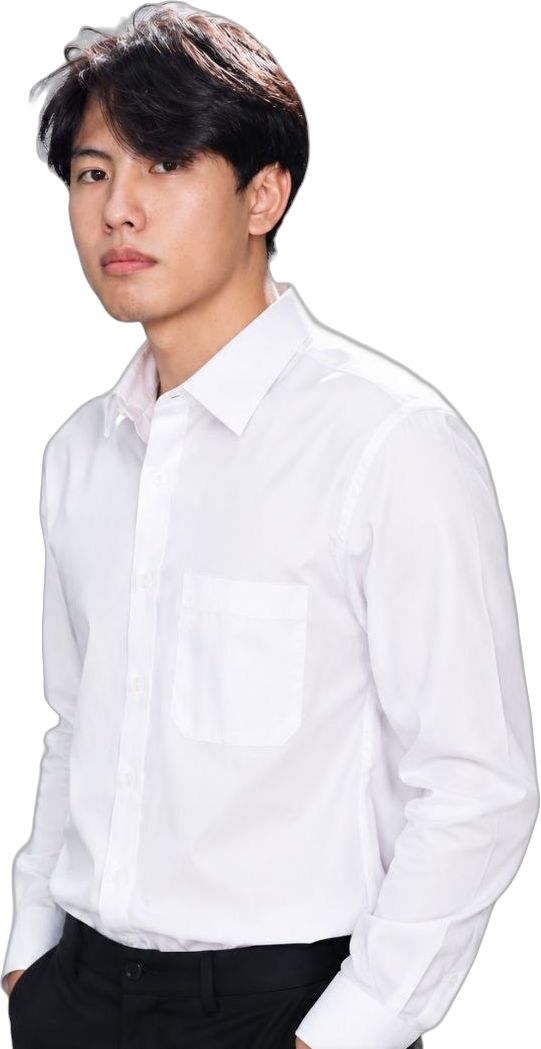
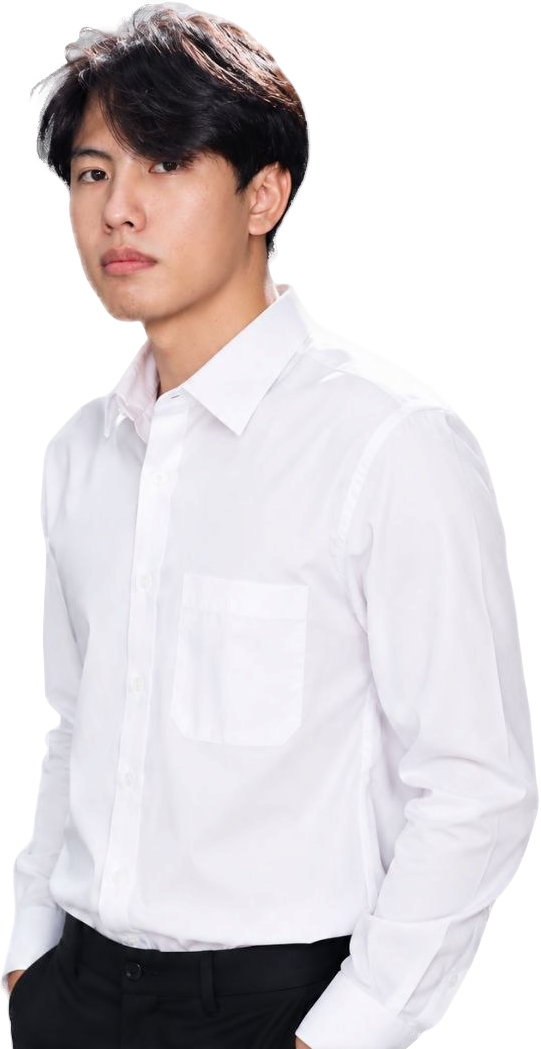
Add Agri-AI, CropScan, Yield Pro and six more case studies; clean the hero cut-out
New featured cards and an AGRI & SATELLITE filter: Agri-AI satellite field
monitoring (with a full case-study page and satellite evidence gallery),
CropScan harvest monitoring, Yield Pro, sugarcane-cv, CaneGate, eKYC,
YouTube Shorts automation (own case-study page) and Dragon Combat.
Teach the AI assistant about all of them in knowledge.ts and identity.ts.

Re-cut the hero portrait with a matting model so the white fringe around
the hair and shoulders is gone.

diff --git a/lib/knowledge.ts b/lib/knowledge.ts
@@ -10,7 +10,7 @@ export const KNOWLEDGE_BASE: KnowledgeSection[] = [
     {
         id: "about",
         title: "About Watcharapon",
-        content: "Watcharapon (Oat) Thodraksa is a Full-Stack Developer specializing in AI Applications, Mobile Development, and UX/UI Design. He is a Computer Science student (Co-op Program) at Kasetsart University Chalermphrakiat Sakon Nakhon Campus (GPA 2.97), with hands-on enterprise experience from his co-op at Sycapt Co., Ltd. in Bangkok. He can be reached at watcharapon.thod@gmail.com or 094-453-2072.",
+        content: "Watcharapon (Oat) Thodraksa is an AI Engineer who builds computer vision and satellite ML that runs on real cameras and real fields. Most of his current work is for a Thai sugar mill: Agri-AI satellite field monitoring (CropScan, Yield Pro, SAR to NDVI gapfill) at TokinTech, and CaneGate / sugarcane-cv at the weighbridge. Earlier he worked as a Full-Stack Developer on AI applications, mobile and UX/UI. He is a Computer Science student (Co-op Program) at Kasetsart University Chalermphrakiat Sakon Nakhon Campus (GPA 2.97), with hands-on enterprise experience from his co-op at Sycapt Co., Ltd. in Bangkok. He can be reached at watcharapon.thod@gmail.com or 094-453-2072.",
         keywords: ["who", "biography", "background", "location", "bangkok", "contact", "email", "phone", "education", "university"]
     },
     {
@@ -24,6 +24,36 @@ export const KNOWLEDGE_BASE: KnowledgeSection[] = [
         title: "Core Technical Skills",
         content: "Full-Stack: React, Next.js, NestJS, FastAPI, Python, TypeScript, Java Spring Boot, Node.js, PHP. Mobile: React Native + Gemini API. AI/RAG: LangChain, LangGraph, LlamaIndex, pgvector, Qdrant, Gemini API, Hugging Face, n8n, Prompt Engineering. Database: PostgreSQL, MySQL, MongoDB, Firebase, Redis. DevOps: Docker, Kubernetes, GitLab CI/CD, Apache Kafka, ELK Stack, Prometheus, Grafana. Design: Figma, Canva, Power BI. Security: Penetration Testing, Vulnerability Analysis, Defensive Tool Development.",
         keywords: ["skills", "languages", "tools", "stack", "tech", "react", "python", "langchain", "kubernetes", "docker"]
+    },
+    {
+        id: "projects-agri-ai",
+        title: "Project: Agri-AI — Satellite Sugarcane Field Monitoring (TokinTech, 2026)",
+        content: "Agri-AI is a per-field sugarcane monitoring system built for a Thai sugar mill (TRR) from Sentinel-2 optical, Sentinel-1 radar, DEM, CHIRPS rain, Open-Meteo weather and SoilGrids. It runs on Railway as a FastAPI service with a built-in scheduler, pulls every new scene from Planetary Computer, computes per-pixel and per-field signals, and pushes recommendations into the mill's own SQL Server backend. Two products: CropScan Harvest Monitoring (cut or standing, and cut percentage per field; two-colour NDVI rule plus a Sentinel-1 VH-drop gate; out-of-block on 8,924 fields season 68: precision 0.869, recall 0.897, F1 0.883) and Yield Pro (field health, cause labels such as drought/decline/recovery, and P10/P50/P90 tonnes per rai from LightGBM; in-sample Spearman 0.72, honest out-of-zone 0.25–0.31, so it ships deciles and ranking not a tonne figure). A SAR→NDVI gapfill model predicts the optical index under cloud: 95.7% of answered pixels within ±0.10 NDVI, MAE 0.034, on 129k held-out pixels from 448,986 out-of-block pixels, conformal intervals with a reject option at 28.8% coverage. MLOps: warehouse bucket, Kaggle/Modal GPU training, PROVENANCE.json per artifact, MLflow, Loki + Grafana + Prometheus. A related paper on unregistered cane field detection from AlphaEarth embeddings (recall 93.2%) was submitted to Precision Agriculture (Springer) in August 2026. Watcharapon is the AI/MLOps engineer on this at TokinTech.",
+        keywords: ["agri", "agri-ai", "satellite", "sentinel", "sugarcane", "cane", "field", "cropscan", "yield pro", "yield", "harvest", "ndvi", "sar", "radar", "gapfill", "remote sensing", "trr", "tokintech", "mill", "railway", "mlflow", "precision agriculture", "paper"]
+    },
+    {
+        id: "projects-sugarcane-cv",
+        title: "Project: sugarcane-cv — Nine CV/Audio Detectors at a Thai Sugar Mill",
+        content: "sugarcane-cv collects nine detection problems from one real sugar mill: dust opacity at the tipper (model + rules, synthetic test set), burnt vs fresh cane (trained on 8,612 real CCTV frames, camera-bound), mixed burnt cane in one load (colour rule, no model), dirt/leaf contamination (65 real images, inconclusive), sand/rock/metal from microphone audio (real sound from the tipping bay, sand solved), cane flow on the conveyor (self-training model at 70 fps on real video), Thai licence plate reading (two readers, one model-free, designed for zero wrong reads on a 60-image hard set), is-there-cane-on-the-truck (edge rule, 3.9 ms per frame, deployed), and cane stalk segmentation (31 hand labels, supporting work). The repo contains training code and algorithms only, no model files and no customer images, and every number states what evidence it stands on. Related production system: CaneGate, an all-in-one truck inspection at the weighbridge (side camera grades cane, front camera reads the Thai plate) shipped as Docker images khawoat07/canegate, canegate-web and canegate-lpr. GitHub: https://github.com/watcharaponthod-code/sugarcane-cv",
+        keywords: ["sugarcane-cv", "sugarcane", "mill", "dust", "burnt", "cctv", "plate", "ocr", "licence", "license", "canegate", "truck", "weighbridge", "conveyor", "audio", "rock", "sand", "docker", "computer vision"]
+    },
+    {
+        id: "projects-ekyc",
+        title: "Project: eKYC — Liveness Capture and Face Identity",
+        content: "ekyc is a React Native module plus a Python FastAPI decision server. The phone runs the interaction (turn, blink and active-flash liveness coaching with ML Kit) and stores no biometric data; the server re-derives everything from pixels using MediaPipe (478 landmarks, head pose, blendshapes) and DeepFace (ArcFace embeddings, MiniFASNet anti-spoofing ensemble). An ONNX-only backend (SCRFD + ArcFace + MiniFASNet) exists for deployments without TensorFlow/PyTorch, and a fully on-device variant uses ML Kit + MobileFaceNet. 187 server tests (42 on real models) and 105 module tests pass, including enrol, verify, identify and erase end-to-end. Includes a PAD evaluation harness for APCER/BPCER per attack species (ISO/IEC 30107-3). Documented gaps: not yet run on a physical phone; thresholds calibrated on Western press photos; only screen-replay attacks tested. GitHub: https://github.com/watcharaponthod-code/ekyc",
+        keywords: ["ekyc", "kyc", "liveness", "face", "biometric", "anti-spoof", "mediapipe", "deepface", "arcface", "react native", "identity", "verification", "pad", "apcer"]
+    },
+    {
+        id: "projects-shorts-automation",
+        title: "Project: YouTube Shorts Automation — BudyStory / AlexASMR",
+        content: "A closed-loop content pipeline: analyse yesterday's YouTube Analytics (views, retention, traffic sources via a REST proxy), decide the next theme, find ideas from competitor clips, generate 9:16 ten-second clips with meta.ai using a locked character spec, QC every frame (character outfit, no subtitles, correct aspect, title set), upload to two YouTube channels and Facebook Reels on schedule, then measure 48 hours later and update the strategy. As of 19 Sep 2026 the BudyStory channel had 5,510 subscribers, 3.34 million views and 189 clips, averaging about 211k views per day; traffic is 97% Shorts feed, 84% Thailand. Findings that became rules: retention leaks in seconds 1–2, silent food fails on the ASMR channel, 18 uploads in one day collapsed reach 100 times, big-object destruction is the top format, hit rate above 100k views is 7 of 129 clips. Nothing publishes without human confirmation. An earlier version used Gemini TTS Thai narration, synthetic SFX and ffmpeg effects.",
+        keywords: ["youtube", "shorts", "automation", "content", "budystory", "asmr", "analytics", "retention", "meta.ai", "video", "pipeline", "growth", "facebook", "reels", "tts"]
+    },
+    {
+        id: "projects-dragon-combat",
+        title: "Project: Dragon Combat — Roblox Aerial PvP with Human-Passing Bot AI",
+        content: "roblox-dragon-combat is a multiplayer dragon flight-combat game in Roblox. The bot AI is a behaviour-based flight brain, not a neural network: a three-state finite state machine (PATROL through boost rings with altitude changes capped at ±70 studs; ATTACK as a gun run aiming at target position plus a quarter second of velocity, then breaking off at 240 studs with a 75-degree bank; EVADE below 28% HP with a sinusoidal jink). Target selection adds a 240-stud penalty per bot already claiming a target so the squad spreads across the arena and bots fight each other. Whisker raycasts and wall-slide handle obstacles. Reinforcement learning was rejected because the budget is a few hundred microseconds per bot per frame in Luau, the goal is to lose convincingly rather than win, and every player complaint maps to one constant. GitHub: https://github.com/watcharaponthod-code/roblox-dragon-combat",
+        keywords: ["roblox", "dragon", "game", "bot", "ai", "luau", "steering", "fsm", "pvp", "game ai", "behaviour"]
     },
     {
         id: "projects-rag-chat",

diff --git a/components/portfolio/Projects.tsx b/components/portfolio/Projects.tsx
@@ -15,6 +15,9 @@ const SUBWAY_GIF    = 'https://raw.githubusercontent.com/watcharaponthod-code/su
 const RAG_CHAT_DIAG = 'https://raw.githubusercontent.com/watcharaponthod-code/rag-chat/main/diagram/diagram.png';
 const ELIC_ARCH     = 'https://raw.githubusercontent.com/watcharaponthod-code/elic/main/architecture-diagram.svg';
 const DONLAYA_WORK  = 'https://lh3.googleusercontent.com/d/1LlQNx6MpBvUXJ9VEZEzTk_YvhFnBLEA4=w1600';
+const DUST_GIF      = 'https://raw.githubusercontent.com/watcharaponthod-code/sugarcane-cv/main/media/dust_real.gif';
+const CANEGATE_LIVE = 'https://raw.githubusercontent.com/watcharaponthod-code/canegate-assets/main/screen-live.png';
+const DRAGON_GIF    = 'https://raw.githubusercontent.com/watcharaponthod-code/roblox-dragon-combat/main/media/dragon_combat.gif';
 
 function useInView(threshold = 0.1) {
   const ref = useRef<HTMLDivElement>(null);
@@ -29,7 +32,7 @@ function useInView(threshold = 0.1) {
   return { ref, inView };
 }
 
-type Category = 'ALL' | 'AI & RAG' | 'FULL-STACK' | 'SYSTEMS' | 'COMPUTER VISION' | 'DATA & GROWTH';
+type Category = 'ALL' | 'AGRI & SATELLITE' | 'COMPUTER VISION' | 'AI & RAG' | 'FULL-STACK' | 'SYSTEMS' | 'DATA & GROWTH';
 
 interface Project {
   title: string;
@@ -48,6 +51,100 @@ interface Project {
 }
 
 const ALL_PROJECTS: Project[] = [
+  // ── FEATURED · AGRI & SATELLITE ───────────────────────────────────────────
+  {
+    title: 'Agri-AI: Satellite Field Monitoring',
+    role: 'AI / MLOPS ENGINEER · TOKINTECH',
+    desc: 'Per-field sugarcane monitoring for a Thai mill from Sentinel-2, Sentinel-1 radar and weather. Fills cloud gaps with a radar-to-NDVI model (95.7% within ±0.10 on 129k held-out pixels), labels health and cause per field, and pushes recommendations into the mill\'s own backend every cycle.',
+    stack: ['Sentinel-1/2', 'FastAPI', 'LightGBM', 'PyTorch', 'MLflow', 'Railway'],
+    metrics: '448,986 OUT-OF-BLOCK PX',
+    category: 'AGRI & SATELLITE',
+    internalLink: 'project-agri-ai',
+    image: '/agri/agri-architecture.jpg',
+    featured: true,
+  },
+  {
+    title: 'CropScan: Harvest Monitoring',
+    role: 'COMPUTER VISION · REMOTE SENSING',
+    desc: 'Cut or still standing, and how much of the field. A two-colour NDVI rule counts cut pixels inside each polygon; a Sentinel-1 VH-drop gate confirms through cloud. Scored against 8,924 fields of real weighbridge tickets: precision 0.869, recall 0.897.',
+    stack: ['Sentinel-2 NDVI', 'Sentinel-1 VH', 'rasterio', 'Python'],
+    metrics: 'F1 0.883 · 8,924 FIELDS',
+    category: 'AGRI & SATELLITE',
+    internalLink: 'project-agri-ai',
+    image: '/agri/cropscan-fields.png',
+    featured: true,
+  },
+  {
+    title: 'Yield Pro: Field Health & Yield',
+    role: 'MACHINE LEARNING · AGRONOMY',
+    desc: 'P10/P50/P90 tonnes-per-rai and a cause label (drought, decline, recovery) per field from optical, radar, rain, ET0, soil and terrain features. In-sample Spearman 0.72 is the ceiling; the out-of-zone number is 0.25–0.31, so the product ships deciles and ranking, not a tonne figure.',
+    stack: ['LightGBM', 'GroupKFold', 'CHIRPS', 'Open-Meteo', 'SoilGrids'],
+    metrics: 'P10–P90 COVERS 80%',
+    category: 'AGRI & SATELLITE',
+    internalLink: 'project-agri-ai',
+    image: '/agri/yieldpro-backtest.png',
+    featured: true,
+  },
+  {
+    title: 'Sugarcane CV: Nine Mill Detectors',
+    role: 'COMPUTER VISION · AUDIO',
+    desc: 'Nine detection problems from one Thai sugar mill: dust opacity at the tipper, burnt vs fresh cane on 8,612 real CCTV frames, mixed loads by colour alone, sand and rock by sound, cane flow on the conveyor at 70 fps, Thai plate OCR designed for zero wrong reads. Each row says what evidence it stands on.',
+    stack: ['YOLOv8', 'OpenCV', 'PyTorch', 'librosa', 'ONNX'],
+    metrics: '9 PROBLEMS · REAL CCTV',
+    category: 'COMPUTER VISION',
+    image: DUST_GIF,
+    isGif: true,
+    externalUrl: 'https://github.com/watcharaponthod-code/sugarcane-cv',
+    actionLabel: 'VIEW REPO',
+    featured: true,
+  },
+  {
+    title: 'CaneGate: Truck Inspection',
+    role: 'PRODUCTION CV · DOCKER',
+    desc: 'All-in-one inspection at the weighbridge: a side camera grades the cane on the truck, a front camera reads the Thai plate in strict mode. Ships as Docker images (canegate, canegate-web, canegate-lpr) with live view, per-truck confirmation, shift stats and a simulation mode for testing without trucks.',
+    stack: ['Docker', 'FastAPI', 'YOLOv8', 'OCR', 'React'],
+    metrics: 'DEPLOYED AT THE MILL',
+    category: 'COMPUTER VISION',
+    image: CANEGATE_LIVE,
+    externalUrl: 'https://hub.docker.com/r/khawoat07/canegate',
+    actionLabel: 'DOCKER HUB',
+    featured: true,
+  },
+  {
+    title: 'eKYC: Liveness + Face Identity',
+    role: 'MOBILE · BIOMETRICS',
+    desc: 'React Native module plus a FastAPI decision server. The phone coaches turn, blink and active-flash checks; the server re-derives everything from pixels with MediaPipe, ArcFace and a MiniFASNet anti-spoof ensemble. No biometric data is stored on the phone. 187 server tests, 42 on real models, and a PAD harness for ISO 30107-3 metrics.',
+    stack: ['React Native', 'FastAPI', 'MediaPipe', 'DeepFace', 'ONNX'],
+    metrics: 'APCER / BPCER HARNESS',
+    category: 'COMPUTER VISION',
+    externalUrl: 'https://github.com/watcharaponthod-code/ekyc',
+    actionLabel: 'VIEW REPO',
+    featured: true,
+  },
+  {
+    title: 'YouTube Shorts Automation',
+    role: 'AI CONTENT PIPELINE · GROWTH',
+    desc: 'Reads yesterday\'s Analytics, decides the next theme, generates 9:16 clips with a locked AI character, QCs every frame, uploads on schedule and measures 48 hours later. BudyStory reached 3.34M views and 5,510 subscribers in its first weeks; the rules that survived the data are written down, the ones that failed are logged.',
+    stack: ['Python', 'YouTube Analytics API', 'meta.ai', 'Graph API', 'ffmpeg'],
+    metrics: '3.34M VIEWS · 189 CLIPS',
+    category: 'DATA & GROWTH',
+    internalLink: 'project-shorts',
+    image: '/media/shorts-pipeline.jpg',
+    featured: true,
+  },
+  {
+    title: 'Dragon Combat: Bots That Pass for Players',
+    role: 'GAME AI · ROBLOX LUAU',
+    desc: 'Aerial dragon PvP where the bot brain is a three-state steering FSM, not a network: patrol through boost rings, gun-run with a quarter-second lead and a 240-stud break-off, evade with a sinusoidal jink. Tuned to one goal: players cannot tell which dragons are bots, and can still beat them.',
+    stack: ['Roblox Studio', 'Luau', 'Steering behaviours', 'FSM'],
+    metrics: 'µs PER BOT PER FRAME',
+    category: 'SYSTEMS',
+    image: DRAGON_GIF,
+    isGif: true,
+    externalUrl: 'https://github.com/watcharaponthod-code/roblox-dragon-combat',
+    actionLabel: 'VIEW REPO',
+    featured: true,
+  },
   // ── FEATURED ──────────────────────────────────────────────────────────────
   {
     title: 'Enterprise RAG Ecosystem',
@@ -184,7 +281,7 @@ const ALL_PROJECTS: Project[] = [
   },
 ];
 
-const CATEGORIES: Category[] = ['ALL', 'AI & RAG', 'FULL-STACK', 'SYSTEMS', 'COMPUTER VISION', 'DATA & GROWTH'];
+const CATEGORIES: Category[] = ['ALL', 'AGRI & SATELLITE', 'COMPUTER VISION', 'AI & RAG', 'FULL-STACK', 'SYSTEMS', 'DATA & GROWTH'];
 
 function ProjectCard({ p, index }: { p: Project; index: number }) {
   const { setView } = useUI();

diff --git a/components/portfolio/AgriAIProject.tsx b/components/portfolio/AgriAIProject.tsx
@@ -1,0 +1,53 @@
+import ProjectDetail from './ProjectDetail';
+
+export default function AgriAIProject() {
+  return (
+    <ProjectDetail data={{
+      id: 'agri-ai',
+      title: 'Agri-AI: Satellite Field Monitoring',
+      role: 'AI / MLOPS ENGINEER · TOKINTECH',
+      year: '2026',
+      tagline: 'Per-field sugarcane monitoring for a Thai sugar mill (TRR) from Sentinel-2 optical, Sentinel-1 radar and weather data. Two products run on it: CropScan Harvest Monitoring answers "cut or still standing, and how much", Yield Pro answers "how healthy, why, and how many tonnes per rai".',
+      overview: 'Thousands of registered cane fields, one mill, and a 5-day satellite revisit that clouds wipe out for half the season. The system pulls every new Sentinel-2 and Sentinel-1 scene from Planetary Computer, computes per-pixel and per-field signals, fills the cloud gaps with a radar-to-NDVI model, labels each field with a health state and a cause, and pushes recommendations back into the mill\'s own backend. Every number it ships is measured out-of-block against the mill\'s real weighbridge tickets and harvest records, and the numbers that are not good enough yet are reported as exactly that.',
+      mediaGallery: [
+        { src: '/agri/cropscan-fields.png', caption: 'CROPSCAN // Sentinel-2 true colour (left) vs two-colour cut mask (right), four real fields, season 68' },
+        { src: '/agri/harvest-sar-map.png', caption: 'SENTINEL-1 RADAR // per-field VH drop vs baseline, Dec 2025 → Mar 2026, 20×20 km around Si Thep' },
+        { src: '/agri/cropscan-confusion.png', caption: 'CUT / STANDING GATE // confusion matrix on 8,924 fields, season 68 harvest tickets' },
+        { src: '/agri/sar-gapfill.png', caption: 'SAR→NDVI GAPFILL // predicted vs true NDVI on 448,986 out-of-block pixels, Round A vs B' },
+        { src: '/agri/yieldpro-backtest.png', caption: 'YIELD PRO // back-test against weighbridge tonnes, in-sample vs out-of-zone GroupKFold' },
+      ],
+      keyFeatures: [
+        'CropScan Harvest Monitoring: a two-colour NDVI rule counts cut pixels inside each polygon and a Sentinel-1 VH-drop gate confirms it through cloud. Out-of-block on 8,924 fields (season 68): precision 0.869, recall 0.897, F1 0.883. Radar alone matches the harvest ticket 89–91% by mid-March.',
+        'SAR→NDVI gapfill: predicts the optical index when clouds block Sentinel-2. 95.7% of answered pixels within ±0.10 NDVI (MAE 0.034) on 129k held-out pixels, with conformal intervals and an explicit reject option at 28.8% coverage. Self-training with 22k pseudo-labels per fold changed nothing, and the deck says so.',
+        'Yield Pro: LightGBM P10/P50/P90 tonnes-per-rai from optical, radar, rain, ET0, soil and DEM features. In-sample Spearman 0.72 is the ceiling; the honest out-of-zone number is 0.25–0.31, so the product ships deciles and ranking, not a tonne figure.',
+        'MLOps loop: warehouse of raw pixels on a bucket, Kaggle/Modal GPU training, PROVENANCE.json next to every artifact, MLflow run registry, and a gate that cannot be moved after the result is seen.',
+        'Production on Railway: FastAPI + built-in scheduler (daily every 5 days, full weekly), Loki + Grafana + Prometheus, per-pixel fetches served through the API only. Results land in the mill\'s SQL Server through SaveRecommendation / SaveStateSnapshot / SavePrediction.',
+        'Field-scale cane mapping paper (unregistered field detection from AlphaEarth embeddings, recall 93.2%) submitted to Precision Agriculture (Springer), August 2026.',
+      ],
+      sections: [
+        {
+          title: 'System Architecture',
+          body: 'Four zones. Zone 1 is the data: Sentinel-2, Sentinel-1 and DEM from Planetary Computer, NISAR from NASA Earthdata, CHIRPS rain, Open-Meteo weather and SoilGrids. Zone 2 is ours on Railway: the agri-ai service, the warehouse and model buckets, Jupyter, MLflow, Postgres, Loki and Grafana. Zone 3 is external GPU training on Kaggle and Modal. Zone 4 is the customer: the TRR backend API, its SQL Server, and the farmer app that shows what we send.',
+          image: '/agri/agri-architecture.jpg',
+          imageCaption: 'ARCHITECTURE // DATA → RAILWAY → GPU TRAINING → CUSTOMER',
+          fullWidth: true,
+        },
+        {
+          title: 'How the harvest signal is proven',
+          body: 'A field is labelled "cut" when the share of pixels whose NDVI fell below 0.25 crosses 50%. That rule is scored against the mill\'s own weighbridge tickets: the field counts as truly cut 7 days after its last ticket and truly standing 7 days before its first. Fields that were cut before the baseline image are scored as 0% by design and handed to the radar channel instead, because the optical rule measures change between two images, not cumulative harvest.',
+        },
+        {
+          title: 'What is not claimed',
+          body: 'Yield tonnes per field are not shipped as a point estimate: out-of-zone correlation is a third of the in-sample figure, and the P10–P90 band only just covers 80% of real tickets. The gapfill model answers 28.8% of pixels at the 95% gate and abstains on the rest. Dust, burnt-cane and contamination detectors from the weighbridge cameras live in a separate repo (sugarcane-cv) with their own evidence tables.',
+        },
+      ],
+      stack: ['Python', 'FastAPI', 'Sentinel-1 / Sentinel-2', 'Planetary Computer', 'LightGBM', 'PyTorch', 'Kaggle GPU', 'Modal', 'MLflow', 'Railway', 'Loki + Grafana', 'SQL Server'],
+      metrics: [
+        { label: 'CUT / STANDING F1', value: '0.883' },
+        { label: 'GAPFILL WITHIN ±0.10', value: '95.7%' },
+        { label: 'FIELDS SCORED', value: '8,924' },
+        { label: 'OUT-OF-BLOCK PIXELS', value: '448,986' },
+      ],
+    }} />
+  );
+}

diff --git a/components/portfolio/ShortsAutomationProject.tsx b/components/portfolio/ShortsAutomationProject.tsx
@@ -1,0 +1,42 @@
+import ProjectDetail from './ProjectDetail';
+
+export default function ShortsAutomationProject() {
+  return (
+    <ProjectDetail data={{
+      id: 'shorts-automation',
+      title: 'YouTube Shorts Automation',
+      role: 'AI CONTENT PIPELINE · GROWTH ANALYTICS',
+      year: '2026',
+      tagline: 'A closed loop that reads yesterday\'s YouTube Analytics, decides the next theme, generates 9:16 clips with a locked AI character, QCs every frame, uploads on schedule, and measures the result 48 hours later. Two channels, one of them at 3.3M views in its first weeks.',
+      overview: 'The point was never "make videos with AI". It was to find out, with numbers, what makes a Thai-audience Short get watched. Every day starts by pulling views, retention curves and traffic sources through a REST proxy, and only then does the pipeline ask meta.ai for new clips. Rules that survived the data are written down as rules (silent food does not work on the ASMR channel, the character must wear the same outfit in every clip, 18 uploads in one day collapses reach 100×). Rules that failed are logged as failed.',
+      keyFeatures: [
+        'Analyse → decide → ideate → generate → QC → upload → measure, with a daily strategy loop back to step one. Each step has its own script and its own file drop.',
+        'Two channels with separate API quota: BudyStory (comedy, 5,510 subscribers, 3.34M views, 189 clips as of 19 Sep 2026) and AlexASMR (food ASMR, template "cut it, then eat it").',
+        'Findings that changed the rules: retention leaks in seconds 1–2; retention stopped predicting views once volume rose (Spearman +0.003); big-object destruction is the top format; hit rate above 100k views is 7 of 129 clips.',
+        'QC before publish: frame check for character consistency, no subtitles, correct aspect, title set. Nothing publishes or schedules without a human confirmation.',
+        'Upload to YouTube (two channels, three tag profiles) and Facebook Reels through the Graph API, then delete raw files after posting so the pipeline never drifts on stale footage.',
+        'Earlier version: Thai narration with Gemini TTS, synthetic SFX with numpy/scipy, ffmpeg effects and ASS subtitles, uploaded through the same proxy.',
+      ],
+      sections: [
+        {
+          title: 'Pipeline',
+          body: 'Seven steps, each backed by a file the next step reads. The analysis writes analysis-YYYY-MM-DD.md; the idea log records which themes passed and failed; prompt templates and a locked character spec drive generation; QC folders hold the checked frames; upload and schedule scripts read from the raw folders and clean up after themselves.',
+          image: '/media/shorts-pipeline.jpg',
+          imageCaption: 'PIPELINE // ANALYSE → GENERATE → QC → UPLOAD → MEASURE → LOOP',
+          fullWidth: true,
+        },
+        {
+          title: 'What the numbers say',
+          body: 'Traffic is 97% Shorts feed, 84% Thailand and 15% Laos, 95% mobile, 56% women, 25–44 years. Average 211k views a day across the last 8 days measured. Revenue estimates are labelled as market reference RPM, not account data, because the analytics API does not expose revenue before monetisation. The realistic income for a channel like this is brand deals and affiliate, not ad revenue, and the doc says so.',
+        },
+      ],
+      stack: ['Python', 'Bash', 'YouTube Analytics API', 'Maton REST proxy', 'meta.ai', 'Facebook Graph API', 'Gemini TTS', 'ffmpeg'],
+      metrics: [
+        { label: 'VIEWS (BUDYSTORY)', value: '3.34M' },
+        { label: 'SUBSCRIBERS', value: '5,510' },
+        { label: 'CLIPS PUBLISHED', value: '189' },
+        { label: 'DAILY VIEWS', value: '~211K' },
+      ],
+    }} />
+  );
+}

diff --git a/lib/identity.ts b/lib/identity.ts
@@ -6,7 +6,7 @@
 
 export const CREATOR_IDENTITY = {
     name: "Watcharapon Thodraksa (Oat)",
-    role: "Full-Stack Developer | AI Application | Mobile | UX/UI Design",
+    role: "AI Engineer | Computer Vision | Satellite ML | Full-Stack",
     location: "Bangkok, Thailand",
     email: "watcharapon.thod@gmail.com",
     phone: "094-453-2072",
@@ -15,6 +15,9 @@ export const CREATOR_IDENTITY = {
     education: "B.Sc. Computer Science (Co-op Program), Kasetsart University Chalermphrakiat, GPA 2.97 (2022–present)",
     philosophy: "Building production-grade systems, not just interfaces. Clarity over cleverness. Every technical decision must serve a clear user need.",
     specialties: [
+        "Computer Vision on real cameras: YOLOv8, OpenCV, MediaPipe, ONNX, audio detection, Thai plate OCR (sugarcane-cv, CaneGate, eKYC)",
+        "Satellite ML: Sentinel-1/2, Planetary Computer, NDVI/SAR, LightGBM, conformal gates, out-of-block evaluation (Agri-AI, CropScan, Yield Pro)",
+        "MLOps: Kaggle/Modal GPU training, MLflow, PROVENANCE tracking, Railway, Loki + Grafana + Prometheus",
         "Full-Stack Development: React, Next.js, NestJS, FastAPI, Python, TypeScript, Java Spring Boot",
         "AI & RAG Pipelines: LangChain, LangGraph, LlamaIndex, pgvector, Qdrant, Gemini API, Hugging Face",
         "Mobile Development: React Native + Gemini API (iOS/Android)",
@@ -23,6 +26,9 @@ export const CREATOR_IDENTITY = {
         "UX/UI Design: Figma, JTBD, Business Model Canvas, Canva, Power BI, n8n"
     ],
     achievements: [
+        "Agri-AI (TokinTech, 2026): per-field satellite monitoring for a Thai sugar mill. CropScan cut/standing F1 0.883 on 8,924 fields; SAR to NDVI gapfill 95.7% within ±0.10 on 129k held-out pixels; Yield Pro P10/P90 deciles. Paper submitted to Precision Agriculture (Springer), Aug 2026.",
+        "sugarcane-cv + CaneGate: nine CV/audio detectors at the weighbridge (burnt vs fresh on 8,612 real CCTV frames, cane flow at 70 fps, Thai plate OCR at zero wrong reads), shipped as Docker images and running at the mill.",
+        "YouTube Shorts automation: analytics-driven AI content loop, BudyStory 3.34M views / 5,510 subscribers / 189 clips in its first weeks.",
         "Built Sycapt AI Enterprise — Full-stack On-Premises RAG system (Next.js, NestJS, Python) with Hybrid Search + Re-ranking, deployed on Kubernetes.",
         "Solved GPU VRAM 16GB constraint: designed Model Swapping system cycling 4 LLMs using 120GB RAM as buffer.",
         "Built EDC Geo Map Dashboard visualizing 15,423 Bangkok Bank EDC machines nationwide with real-time filtering (Leaflet.js + FastAPI).",

diff --git a/App.tsx b/App.tsx
@@ -15,6 +15,8 @@ import ElicProject from './components/portfolio/ElicProject';
 import EmbeddingRagProject from './components/portfolio/EmbeddingRagProject';
 import BitcoinMLProject from './components/portfolio/BitcoinMLProject';
 import RAGEcosystemProject from './components/portfolio/RAGEcosystemProject';
+import AgriAIProject from './components/portfolio/AgriAIProject';
+import ShortsAutomationProject from './components/portfolio/ShortsAutomationProject';
 import { AnimatePresence, motion } from 'framer-motion';
 
 function App() {
@@ -46,6 +48,8 @@ function App() {
       case 'project-ninja': return <NinjaFruitProject />;
       case 'project-subway': return <SubwayKidsProject />;
       case 'project-elic': return <ElicProject />;
+      case 'project-agri-ai': return <AgriAIProject />;
+      case 'project-shorts': return <ShortsAutomationProject />;
       default: return null;
     }
   }, [currentView]);

diff --git a/lib/state.ts b/lib/state.ts
@@ -33,7 +33,8 @@ export type ViewType =
   | 'landing' | 'system' | 'skills' | 'playground' | 'projects' | 'live-ai' | 'philosophy' 
   | 'project-sycapt' | 'project-kafka' | 'project-geomap' | 'project-monitoring'
   | 'project-rag-ecosystem' | 'project-embedding-rag' | 'project-bitcoin' 
-  | 'project-trading' | 'project-ninja' | 'project-subway' | 'project-elic';
+  | 'project-trading' | 'project-ninja' | 'project-subway' | 'project-elic'
+  | 'project-agri-ai' | 'project-shorts';
 
 export const useUI = create<{
   currentView: ViewType;
